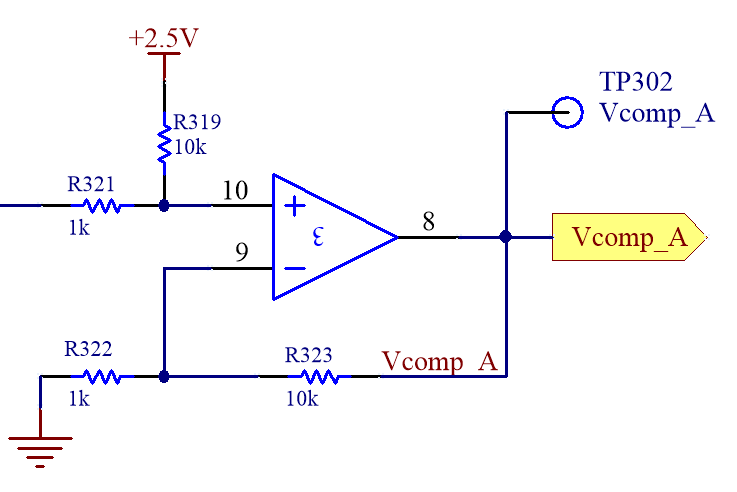
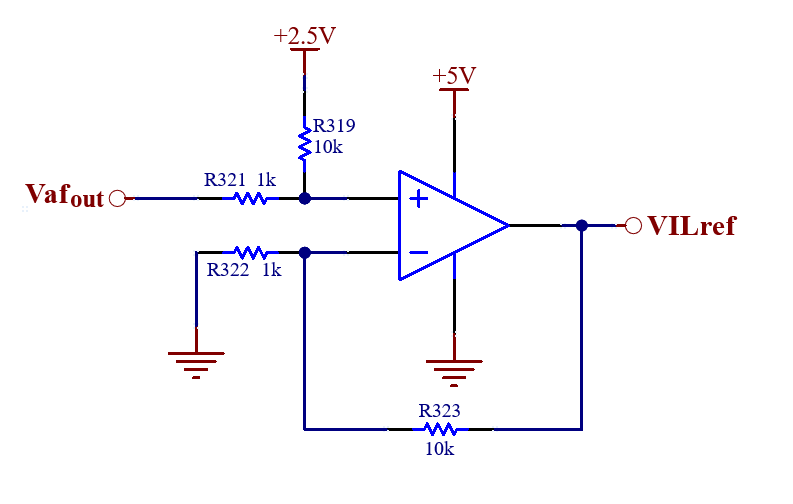
Cambio imagenes de circuitos

Changed region(s): [[0.0, 0.0305, 0.9674, 0.9451], [0.6866, 0.122, 0.9674, 0.2744]]

diff --git a/Informe final/Proyecto Levitador LaTeX/Informe/6-CompensadorAnalogico/CompensadorAnalogico.tex b/Informe final/Proyecto Levitador LaTeX/Informe/6-CompensadorAnalogico/CompensadorAnalogico.tex
@@ -14,6 +14,8 @@ Como se mencionó en la sección \ref{sec_modelo_estados}, el fenómeno de levit
 
 En esta sección se diseña el control del lazo de realimentación interno, que está compuesto por las etapas mostradas en la figura \ref{fig:diag-interno}. Donde $G_c$ corresponde a la transferencia del compensador que se desea diseñar, $G_{IL}$ a la transferencia del controlador de corriente, $G_p$ a la transferencia de la planta y $H_{estim}$ a la del estimador de distancia de entrehierro.
 
+\colorbox{red}{A la señal de error ponerle el nombre: $Ve_{int}$}
+
 \begin{figure}[H]
 	\centering
 	\input{tikz/diagrama_lazo_interno.tex}
@@ -97,6 +99,8 @@ Debido a que $GH_T$ tiene un polo en el semiplano derecho ($P=1$) y no hay giros
 	\input{tikz/diagrama_lazo_interno_realimentacion_positiva.tex}
 	\caption{Diagrama en bloques del lazo de compensación interno considerando realimentación positiva.}	\label{fig:diag-interno_realimentacion_positiva}
 \end{figure}
+
+\colorbox{red}{A la señal de error ponerle el nombre: $Ve_{int}$}
 
 La transferencia de lazo cerrado del sistema ahora queda como:
 
@@ -287,6 +291,9 @@ En la figura \ref{fig:ubicacion_polos_y_ceros} se muestra la ubicación de los p
 	\caption{Diagrama en bloques del lazo de compensación externo.}	\label{fig:diag-externo}
 \end{figure}
 
+\colorbox{red}{A la señal de error ponerle el nombre: $Ve_{ext}$}
+
+
 En el lazo de realimentación interno actúa el compensador por adelanto de fase previamente diseñado y, en el externo, un controlador del tipo integral. Esto permite suavizar la respuesta al escalón del sistema y eliminar el error en régimen permanente.
 
 
@@ -345,6 +352,8 @@ Para determinar el valor de ganancia $K_{int}$ máxima a partir del cual el polo
 En la figura \ref{fig:lugar-de-raices-con-integrador-analog_inestable_acercamiento} se observa que el valor máximo de ganancia es $K_{int}=0.74$. Si bien el sistema resultaría estable para valores menores a este, su respuesta temporal sería demasiado lenta. 
 
 Por lo tanto, se propone utilizar realimentación positiva en el diagrama en bloques de la figura \ref{fig:diag-externo}, obteniendo así el que se muestra la figura \ref{fig:diag-externo_real_positiva}. De esta forma, el polo de baja frecuencia cambia el sentido de desplazamiento y el lugar de raíces resulta como se muestra en la \ref{fig:lugar-de-raices-con-integrador-analog}.
+
+\colorbox{red}{A la señal de error ponerle el nombre: $Ve_{ext}$}
 
 \begin{figure}[H]
 	\centering
@@ -458,12 +467,12 @@ En esta sección se aborda el diseño circuital de la etapa de compensación, ta
 	\label{fig:red-adelanto-fase}
 \end{figure}
 
-\colorbox{red}{Ver los nombres de entrada y salida, punto de operacion y capacitores de desacople..}
+\colorbox{red}{Ver punto de operacion..}
 
 \noindent La transferencia de lazo cerrado de esta etapa es:
 
 \begin{equation} 
-	\frac{V_{out}}{V_{in}}= - \frac{R_a}{R_b}*\frac{1+sC(R_x+R_1)}{1+sCR_x}
+	\frac{Vaf_{out}}{Vaf_{in}}= - \frac{R_a}{R_b}*\frac{1+sC(R_x+R_1)}{1+sCR_x}
 \end{equation}
 
 \noindent Por lo tanto, para tener un polo en $902.1\:Hz$ y un cero en $44.3\:Hz$, al elegir un capacitor $C = 1\:uF$, resulta en $R_x = 1100\:\Omega$ y $R_1 = 21.5\:k\Omega$. Además, se elige $R_a = R_b = 200\:k\Omega$ para obtener una ganancia unitaria. Luego, la ganancia del compensador se obtiene con una etapa amplificadora.
